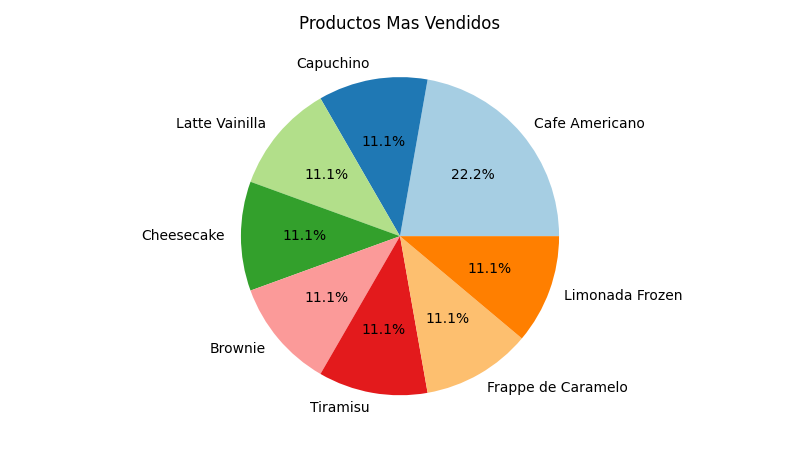
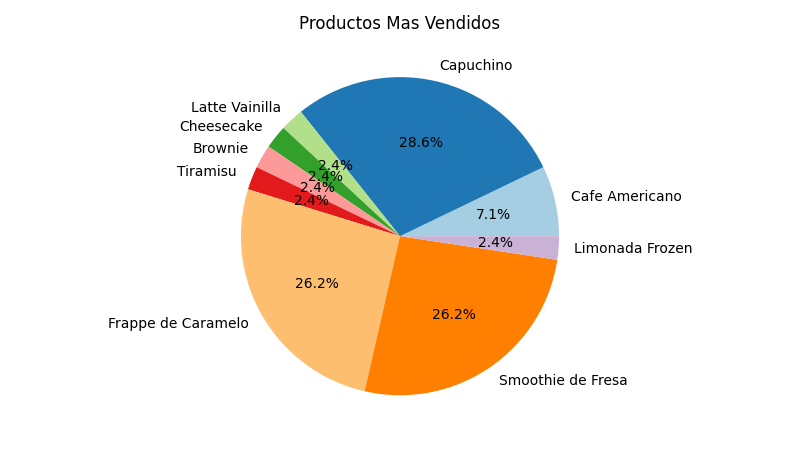
actualizacion de productos al agregarlos

diff --git a/View/reportesView.py b/View/reportesView.py
@@ -3,68 +3,102 @@ import matplotlib.pyplot as plt
 from PIL import Image
 from Controller.reporte_controller import ReporteController
 
-def crear_vista_reportes(parent, colores):
+def crear_vista_reportes(parent, colores):    
     vista = ctk.CTkFrame(parent, fg_color=colores.get('principal'))
     vista.grid(row=0, column=0, sticky="nsew")
+    # permitir que la vista se expanda con el contenedor
+    vista.grid_rowconfigure(1, weight=1)
+    vista.grid_columnconfigure(0, weight=1)
+
     lblTitulo = ctk.CTkLabel(vista, text="Reportes",
                              font=ctk.CTkFont(size=24, weight="bold"),
                             text_color=colores.get('texto'))
     lblTitulo.place(x=20, y=20)
-    
-    # ScrollFrame para los reportes 
-    scroll_frame = ctk.CTkScrollableFrame(vista, width=760, height=500, fg_color=colores.get('principal'))
-    scroll_frame.place(x=20, y=70)
+
+    # Contenedor principal que debe crecer con la ventana (aquí colocaremos el scrollable frame)
+    content_frame = ctk.CTkFrame(vista, fg_color="transparent")
+    content_frame.grid(row=1, column=0, sticky="nsew", padx=20, pady=20)
+    content_frame.grid_rowconfigure(0, weight=1)
+    content_frame.grid_columnconfigure(0, weight=1)
+
+    # ScrollFrame para los reportes (dentro del content_frame para que crezca)
+    scroll_frame = ctk.CTkScrollableFrame(content_frame, fg_color=colores.get('principal'))
+    scroll_frame.grid(row=0, column=0, sticky="nsew")
 
     lblRporteMes = ctk.CTkLabel(scroll_frame, text="Reporte de ventas mensuales",
                                 font=ctk.CTkFont(size=18, weight="bold"),
                                 text_color=colores.get('texto'))
     lblRporteMes.pack(anchor="w", pady=(10, 5), padx=10)
 
-    # Datos de ejemplo para el grafico de la base de datos 
-    controller = ReporteController()
-    reportes = controller.ObtenerVentasMensuales()
-    meses = [f'Mes {row[0]}' for row in reportes]
-    ventas = [row[2] for row in reportes]
+    # Marco para el reporte mensual (consistente con otras vistas)
+    frame_reporte_mes = ctk.CTkFrame(scroll_frame, fg_color=colores.get('tarjeta'))
+    frame_reporte_mes.pack(fill="both", expand=True, padx=10, pady=(0, 20))
+    frame_reporte_mes.grid_columnconfigure(0, weight=1)
 
-    plt.figure(figsize=(8, 4.5))
-    plt.bar(meses, ventas, color=colores.get('secundario'))
-    plt.title("Ventas Mensuales")
-    plt.xlabel("Meses")
-    plt.ylabel("Ventas ($)")
-    plt.tight_layout()
-    plt.savefig("imgs/reporte_mensual.png")
-    plt.close()
+    # placeholder para la imagen del reporte mensual (será actualizada por refresh_reports)
+    label_imagen = ctk.CTkLabel(frame_reporte_mes, image=None, text="")
+    label_imagen.pack(fill="both", expand=True, padx=10, pady=10)
 
-    imagen = ctk.CTkImage(Image.open("imgs/reporte_mensual.png"), size=(700, 400))
-    label_imagen = ctk.CTkLabel(scroll_frame, image=imagen, text="")
-    label_imagen.image = imagen  # mantener referencia para evitar GC 
-    label_imagen.pack(padx=10, pady=(0, 20))
-    
     #Productos mas vendidos
     lblRporteProductos = ctk.CTkLabel(scroll_frame, text="Productos mas vendidos",
                                 font=ctk.CTkFont(size=18, weight="bold"),
                                 text_color=colores.get('texto'))
     lblRporteProductos.pack(anchor="w", pady=(10, 5), padx=10)
-    
-    
-    #Datos de prueba para el grafico de productos mas vendidos
-    #Grafico de pastel
-    controller = ReporteController()
-    productos_data = controller.ObtenerProductosMasVendidos()
-    productos = [row[1] for row in productos_data]
-    cantidades = [row[2] for row in productos_data]
-    
-    plt.figure(figsize=(8, 4.5))
-    plt.pie(cantidades, labels=productos, autopct='%1.1f%%', colors=plt.cm.Paired.colors)
-    plt.title("Productos Mas Vendidos")
-    plt.tight_layout()
-    plt.savefig("imgs/reporte_productos.png")
-    plt.close()
-    
-    imagen_productos = ctk.CTkImage(Image.open("imgs/reporte_productos.png"), size=(700, 400))
-    label_imagen_productos = ctk.CTkLabel(scroll_frame, image=imagen_productos, text="")
-    label_imagen_productos.image = imagen_productos  # mantener referencia para evitar GC 
-    label_imagen_productos.pack(padx=10, pady=(0, 20))
-    
-    
+
+    # Marco para el reporte de productos (consistente con otras vistas)
+    frame_reporte_productos = ctk.CTkFrame(scroll_frame, fg_color=colores.get('tarjeta'))
+    frame_reporte_productos.pack(fill="both", expand=True, padx=10, pady=(0, 20))
+    frame_reporte_productos.grid_columnconfigure(0, weight=1)
+
+    # placeholder para la imagen del reporte de productos
+    label_imagen_productos = ctk.CTkLabel(frame_reporte_productos, image=None, text="")
+    label_imagen_productos.pack(fill="both", expand=True, padx=10, pady=10)
+
+    # función para generar/actualizar los reportes (se puede llamar externamente)
+    def refresh_reports():
+        try:
+            controller = ReporteController()
+
+            # Ventas mensuales
+            reportes = controller.ObtenerVentasMensuales()
+            meses = [f'Mes {row[0]}' for row in reportes]
+            ventas = [row[2] for row in reportes]
+
+            plt.figure(figsize=(8, 4.5))
+            plt.bar(meses, ventas, color=colores.get('secundario'))
+            plt.title("Ventas Mensuales")
+            plt.xlabel("Meses")
+            plt.ylabel("Ventas ($)")
+            plt.tight_layout()
+            plt.savefig("imgs/reporte_mensual.png")
+            plt.close()
+
+            imagen = ctk.CTkImage(Image.open("imgs/reporte_mensual.png"), size=(700, 400))
+            label_imagen.configure(image=imagen)
+            label_imagen.image = imagen
+
+            # Productos mas vendidos
+            productos_data = controller.ObtenerProductosMasVendidos()
+            productos = [row[1] for row in productos_data]
+            cantidades = [row[2] for row in productos_data]
+
+            plt.figure(figsize=(8, 4.5))
+            plt.pie(cantidades if cantidades else [1], labels=productos if productos else ['N/A'], autopct='%1.1f%%', colors=plt.cm.Paired.colors)
+            plt.title("Productos Mas Vendidos")
+            plt.tight_layout()
+            plt.savefig("imgs/reporte_productos.png")
+            plt.close()
+
+            imagen_productos = ctk.CTkImage(Image.open("imgs/reporte_productos.png"), size=(700, 400))
+            label_imagen_productos.configure(image=imagen_productos)
+            label_imagen_productos.image = imagen_productos
+        except Exception as e:
+            print(f"Error actualizando reportes: {e}")
+
+    # Exponer la función de refresco en el frame para que otras vistas la invocen
+    vista.refresh_reports = refresh_reports
+
+    # generar los reportes inicialmente
+    refresh_reports()
+
     return vista

diff --git a/View/menuView.py b/View/menuView.py
@@ -13,16 +13,17 @@ def crear_vista_menu(parent, colores):
     
     # Productos
     control_productos = ProductoController()
-    # declarando listas para las categorias
-    Cafes = list()
-    BebidasFrias = list()
-    Postres = list()
-    for ca in control_productos.ListarCafes():
-        Cafes.append(ca)
-    for bebidas in control_productos.ListarBebidasFrias():
-        BebidasFrias.append(bebidas)
-    for pst in control_productos.ListarPostres():
-        Postres.append(pst)
+
+    def load_products():
+        """Carga las listas de productos desde el controlador y devuelve el dict de categorías."""
+        Cafes = list(control_productos.ListarCafes())
+        BebidasFrias = list(control_productos.ListarBebidasFrias())
+        Postres = list(control_productos.ListarPostres())
+        return {
+            "Cafes👅": Cafes,
+            "Postres🍑": Postres,
+            "Bebidas Frías🥶": BebidasFrias
+        }
 
     vista_menu = ctk.CTkFrame(parent, fg_color=colores.get('principal'))
     vista_menu.grid(row=0, column=0, sticky="nsew")
@@ -198,11 +199,10 @@ def crear_vista_menu(parent, colores):
     def cambiar_categoria(cat):
         mostrar_productos(cat)
 
-    productos = {
-        "Cafes👅": Cafes,
-        "Postres🍑": Postres,
-        "Bebidas Frías🥶": BebidasFrias
-    }
+    # diccionario con productos (se carga inicialmente y puede refrescarse)
+    productos = load_products()
+    # categoría actualmente mostrada (útil para refrescar manteniendo la vista)
+    current_category = "Cafes👅"
 
     # crear contenedor de productos y mostrar por defecto Cafes
     productos_frame = ctk.CTkFrame(marco_productos, fg_color=colores.get('principal'))
@@ -212,6 +212,8 @@ def crear_vista_menu(parent, colores):
         # Limpiar productos anteriores
         for widget in productos_frame.winfo_children():
             widget.destroy()
+        nonlocal current_category
+        current_category = categoria
 
         # Crear grid para organizar productos
         productos_grid = ctk.CTkFrame(productos_frame, fg_color=colores.get('principal'))
@@ -311,6 +313,21 @@ def crear_vista_menu(parent, colores):
         productos_grid.grid_columnconfigure(1, weight=1, uniform="col")
 
     mostrar_productos("Cafes👅")
+
+    # método público para refrescar la lista de productos desde fuera (por ejemplo, tras una modificación)
+    def refresh_products():
+        try:
+            # recargar desde el controlador
+            nuevos = load_products()
+            productos.clear()
+            productos.update(nuevos)
+            # volver a mostrar la categoría actual
+            mostrar_productos(current_category)
+        except Exception as e:
+            print(f"Error refrescando productos: {e}")
+
+    # Exponer la función en el frame para que otras vistas puedan invocarla
+    vista_menu.refresh_products = refresh_products
 
     return vista_menu
         #fun confirmar

diff --git a/View/agregarProductoView.py b/View/agregarProductoView.py
@@ -121,7 +121,7 @@ def crear_vista_agregar_producto(tab_agregar, paleta, controller, categorias, pr
     # función para cargar la imagen
     def CargarImagen():
         nonlocal imagen_agregar_path
-        file_path = filedialog.askopenfilename(title="Seleccionar imagen", filetypes=[("Image files", "*.png;*.jpg;*.jpeg")])
+        file_path = filedialog.askopenfilename(title="Seleccionar imagen", filetypes=[("Image files", "*.png *.jpg *.jpeg")])
         if file_path:
             try:
                 imagen_agregar_path = file_path
@@ -196,6 +196,20 @@ def crear_vista_agregar_producto(tab_agregar, paleta, controller, categorias, pr
             controller.AgregarProducto(nombre, descripcion, precio, stock, categoria_id, proveedor_id, ruta_imagen)
 
             messagebox.showinfo("Éxito", "Producto agregado exitosamente.")
+            
+            # Intentar refrescar la vista del menú principal si está disponible
+            try:
+                root = tab_agregar.winfo_toplevel()
+                dashboard = getattr(root, 'dashboard', None)
+                if dashboard:
+                    menu_frame = dashboard.views.get('menu')
+                    if menu_frame and hasattr(menu_frame, 'refresh_products'):
+                        menu_frame.refresh_products()
+            except Exception as e:
+                    print(f"Advertencia: no se pudo refrescar el menú: {e}")
+        except Exception as e:
+            messagebox.showerror("Error", f"No se pudo modificar el producto: {e}")
+
 
             # limpiar formulario
             etyNombre.delete(0, 'end')
@@ -210,6 +224,8 @@ def crear_vista_agregar_producto(tab_agregar, paleta, controller, categorias, pr
             lblPreviewThumbnail.configure(image=imagen_default, text="")  # reset preview
         except Exception as e:
             messagebox.showerror("Error", f"No se pudo agregar el producto: {e}")
+    
+            
     
             # botón para agregar producto
     btnAgregarProducto = ctk.CTkButton(FrameAgregarFormulario, text="Agregar producto", fg_color=COLOR_SECONDARY, hover_color=COLOR_PRIMARY, 

diff --git a/View/confirmarPagoView.py b/View/confirmarPagoView.py
@@ -127,11 +127,26 @@ def WindowPago(vista_menu, colores, calculate_total, order_items):
                 messagebox.showerror("Error","El Producto no es valido")
                 return
             detalle_lista.append((nombre[0], data['cantidad']))
-        
-        print(f"fecha: {fecha_actual} \nIdCliente: {IdCliente} \nIdEmpleado: {IdEmpleado} \nDetallesVenta {detalle_lista} \nTotalVenta: {TotalVenta}")
-        v = Venta(TotalVenta, fecha_actual, IdCliente, IdEmpleado)
-        serviceVenta.AgregarVentaCompleta(v,detalle_lista)
-        
+            
+        #Verificar si el stock es suficiente antes de confirmar la venta
+        stock = controlProducto.BuscarProducto(nombre[0])[3]
+        if stock < data['cantidad']:
+            messagebox.showerror("error", "stock insficiente")
+        else:
+            print(f"fecha: {fecha_actual} \nIdCliente: {IdCliente} \nIdEmpleado: {IdEmpleado} \nDetallesVenta {detalle_lista} \nTotalVenta: {TotalVenta}")
+            v = Venta(TotalVenta, fecha_actual, IdCliente, IdEmpleado)
+            serviceVenta.AgregarVentaCompleta(v,detalle_lista)
+            # Intentar refrescar reportes en el dashboard si está disponible
+            try:
+                root = vista_menu.winfo_toplevel()
+                dashboard = getattr(root, 'dashboard', None)
+                if dashboard:
+                    reports_frame = dashboard.views.get('reports')
+                    if reports_frame and hasattr(reports_frame, 'refresh_reports'):
+                        reports_frame.refresh_reports()
+            except Exception as e:
+                print(f"Advertencia: no se pudo refrescar reportes: {e}")
+
         order_items.clear()
         window_pago.destroy()
 

diff --git a/View/dashboard.py b/View/dashboard.py
@@ -26,7 +26,9 @@ class DashboardView:
         self.root = ctk.CTk()
         self.root.title(f"Cafeteria - {self.obtener_nombre_rol(self.user.rol)}")
         self.root.geometry("1000x650")
-        self.root.resizable(False, False)
+        self.root.resizable(1, 1)
+        # Exponer la instancia del Dashboard en el objeto root para que otras vistas puedan acceder a las vistas
+        self.root.dashboard = self
 
         # configuracion de la cuadricula, el sidebar y el contenedor de vistas
         self.root.grid_rowconfigure(0, weight=1)
@@ -109,15 +111,17 @@ class DashboardView:
         # Espaciador
         self.navigation_frame.grid_rowconfigure(5, weight=1)
 
-        # Icono de configuracion
-        self.nav_button_settings = ctk.CTkButton(
-            self.navigation_frame, text="⚙", width=40, height=40,
-            fg_color=COLOR_BG_CARD, hover_color=COLOR_SECONDARY,
+        #Boton de salir 
+        logout_icon = cargar_icono("salir")
+        if not logout_icon:
+            messagebox.showerror("Error", "No se pudo cargar la imagen de logout.")
+        self.logout_button = ctk.CTkButton(
+            self.navigation_frame, image=logout_icon, text="", width=48, height=48,
+            fg_color=COLOR_BG_CARD, hover_color="#ff4d4d",
             command=self.cerrar
         )
-        self.nav_button_settings.grid(row=6, column=0, pady=20)
-
-
+        self.logout_button.grid(row=6, column=0, pady=20, padx=10)
+        
         # contendor principal
         self.view_container = ctk.CTkFrame(self.root, fg_color=COLOR_PRIMARY)
         self.view_container.grid(row=0, column=1, sticky="nsew", padx=10, pady=10)

diff --git a/View/modificarProductoView.py b/View/modificarProductoView.py
@@ -169,6 +169,16 @@ def crear_vista_modificar_producto(TabModificar, paleta, controller, categorias,
                     etyProveedor.set(proveedores_nombres[0])
                 imagen_modificar_path = None
                 lblPreviewThumbnail.configure(image=imagen_default, text="")  # reset preview
+                # Intentar refrescar la vista del menú principal si está disponible
+                try:
+                    root = TabModificar.winfo_toplevel()
+                    dashboard = getattr(root, 'dashboard', None)
+                    if dashboard:
+                        menu_frame = dashboard.views.get('menu')
+                        if menu_frame and hasattr(menu_frame, 'refresh_products'):
+                            menu_frame.refresh_products()
+                except Exception as e:
+                    print(f"Advertencia: no se pudo refrescar el menú: {e}")
         except Exception as e:
             messagebox.showerror("Error", f"No se pudo modificar el producto: {e}")
 

diff --git a/View/loginView.py b/View/loginView.py
@@ -68,10 +68,8 @@ def LoginView():
     entry_contra = ctk.CTkEntry(frame_login, placeholder_text="Contraseña", width=275, height=40, show="*")
     entry_contra.place(y=220, x=50)
 
-    btn_registrarse = ctk.CTkButton(frame_login, text="Registrarse", width=100, height=30)
-    btn_registrarse.place(y=290, x=150)
     boton_entrar = ctk.CTkButton(frame_login, text="Entrar", width=200, height=40, command=entrar)
-    boton_entrar.place(y=340, x=100)        
+    boton_entrar.place(y=300, x=100)        
 
     root.mainloop()
     
